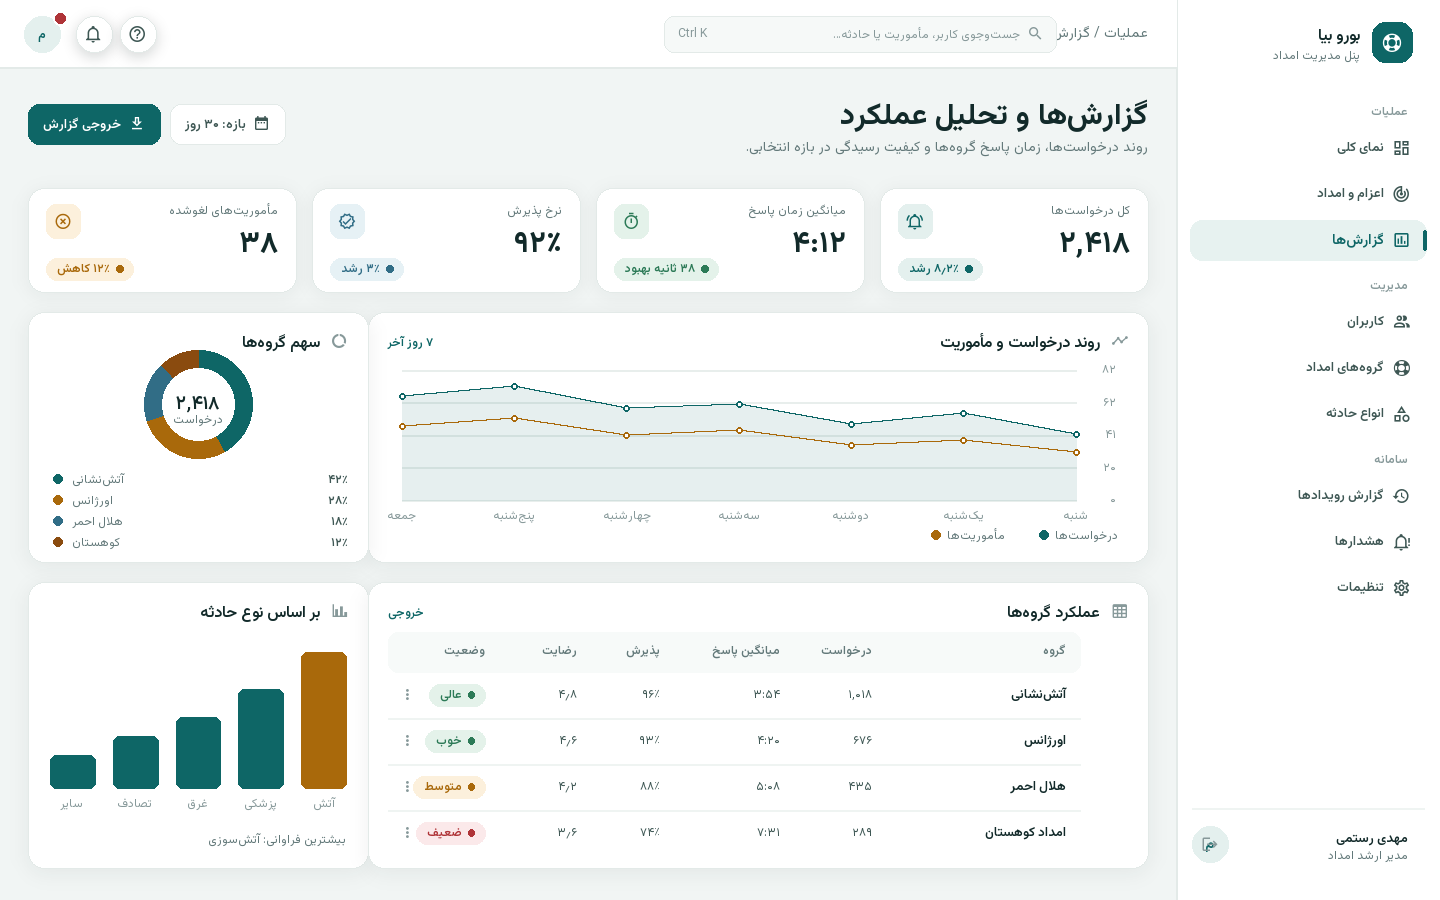
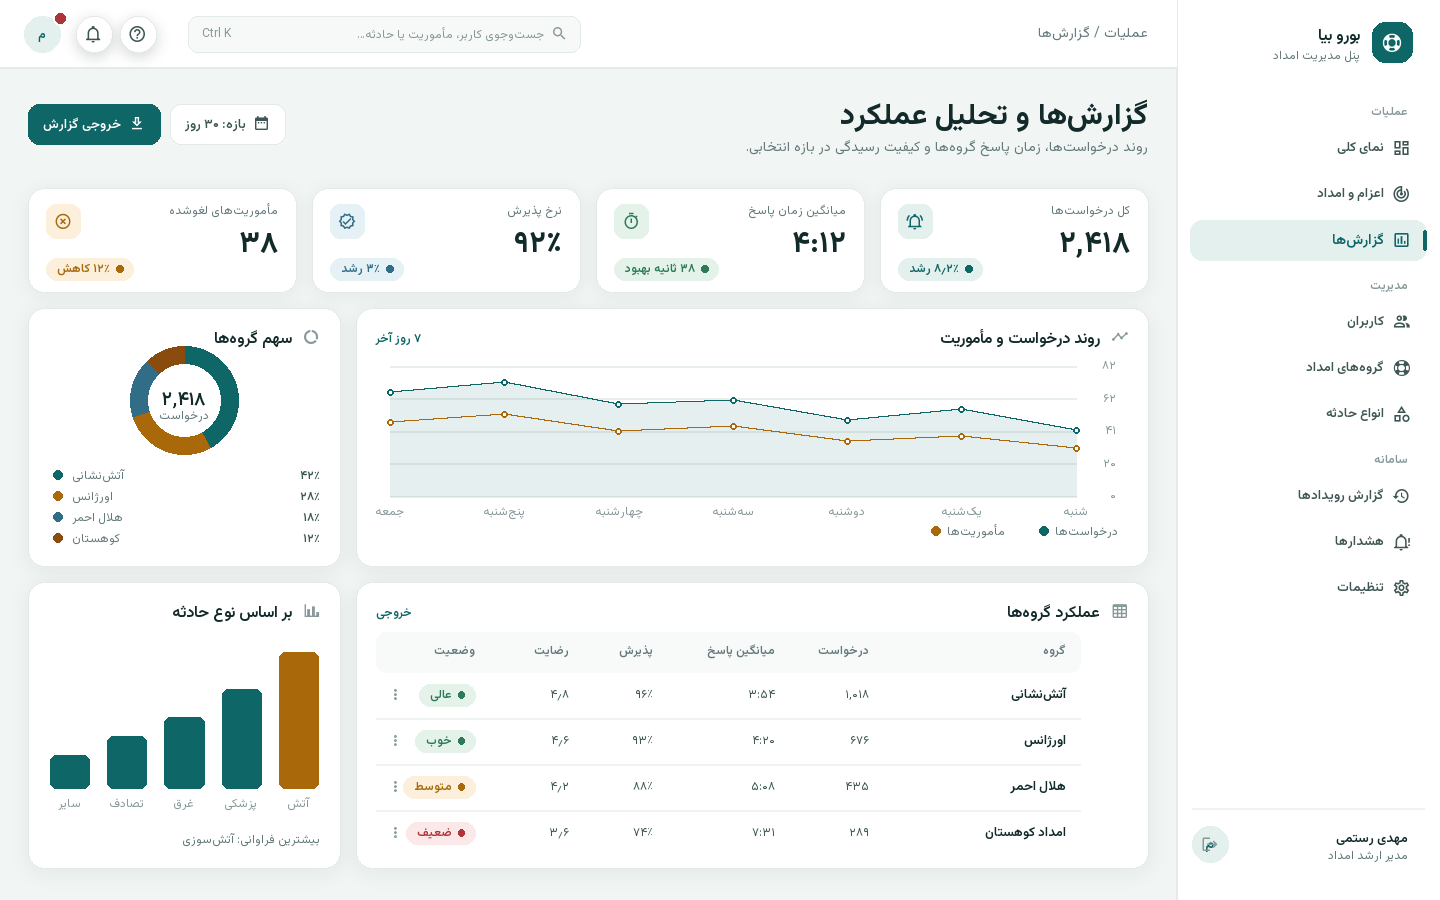
fix(admin-panel): repair the reports grid, palette card and control padding
- `03-reports`: the rail cards were 340 wide and butted straight into the main
  column (0 px gutter) while the KPI row used 16, and the row steps drifted.
  The rail is 312 now and every gutter is 16, so the screen matches
  `01-overview`.
- `01-foundations`: the swatches hung 20 px outside the 700-wide palette card,
  and four of the eight labels named colours the mockups never use
  (`primary_soft` #E7F2F0, "secondary" #E9B35A, "accent" #D77A58,
  `warning` #B57A12, `danger` #B3383C). The card reads its hex from the live
  theme, stays inside the card and lists real tokens (`primary_soft` #E4F0EE,
  `mission` #8A4B0F, `text` #122A2A, `warning` #A9690B, `danger` #AF3438);
  `A.nav_active` now reuses `C.primary_soft` instead of a one-off tint.
- `02-controls`: the button row ended exactly on the card border (0 px on the
  right, 20 px on the left). The three buttons are 162/162/160 with 12 px gaps,
  so the row spans the 508 px inner width.
- `03-members`: the 24 px checkbox sat at `mx + mw - 66`, i.e. 6 px outside the
  member row; it is anchored to the row now (14 px inside) with a 17 px tick.
- every screen: the global search sat at x=664..1056 while the breadcrumb is
  right-aligned on 1148, so any trail longer than ~90 px was drawn on top of
  the field (`states/02-empty`). The search moved next to the account cluster
  (188..580) and the breadcrumb owns the right edge with a 520 px cap.

diff --git a/design/admin-panel/_generator/sections/design_system.py b/design/admin-panel/_generator/sections/design_system.py
@@ -5,15 +5,17 @@ import atheme  # noqa: F401
 from atheme import A, C, PAD, RAIL, TYPE
 import desk as D
 
+# (token, usage) — the hex is read from the live theme, so the card can never drift
+# from the colours the rest of the mockups are drawn with.
 SWATCHES = [
-    ("primary", "#0E6666", "کنش اصلی، لینک، سایدبار فعال"),
-    ("primary_soft", "#E7F2F0", "پسزمینهٔ چیپ و آیتم فعال"),
-    ("secondary", "#E9B35A", "هشدار عملیاتی، مأموریت"),
-    ("accent", "#D77A58", "تأکید ثانویه، نمودار"),
-    ("success", "#2C7A57", "آماده، پذیرفتهشده"),
-    ("warning", "#B57A12", "دیرکرد، در انتظار"),
-    ("danger", "#B3383C", "لغو، خطا، غیرفعال"),
-    ("info", "#316D86", "اطلاعرسانی، راهنما"),
+    ("primary", "کنش اصلی، لینک، سایدبار فعال"),
+    ("primary_soft", "چیپ، آیتم انتخابشده، آواتار"),
+    ("mission", "تأکید مأموریت امداد، نمودار"),
+    ("text", "متن اصلی، تیتر و جدول"),
+    ("success", "آماده، پذیرفتهشده"),
+    ("warning", "دیرکرد، در انتظار"),
+    ("danger", "لغو، خطا، غیرفعال"),
+    ("info", "اطلاعرسانی، راهنما"),
 ]
 
 
@@ -27,10 +29,13 @@ def foundations():
     )
 
     # ---- palette ----------------------------------------------------------
-    D.card(s, PAD, y, 700, 336, "پالت رنگ", "mdi-palette-outline")
-    for index, (name, hexa, usage) in enumerate(SWATCHES):
+    palette_w, palette_pad = 700, 20
+    D.card(s, PAD, y, palette_w, 336, "پالت رنگ", "mdi-palette-outline")
+    swatch_right = PAD + palette_w - palette_pad        # inner right edge of the card
+    for index, (name, usage) in enumerate(SWATCHES):
+        hexa = getattr(C, name)
         col, row = index // 4, index % 4
-        sx = PAD + 680 - col * 330          # left edge of the swatch
+        sx = swatch_right - 40 - col * 330             # left edge of the swatch
         sy = y + 60 + row * 66
         s.rect(sx, sy, 40, 40, fill=hexa, radius=9, outline=A.card_edge, outline_w=1)
         s.text(sx - 12, sy + 2, name, "d-label", C.text, align="right")
@@ -97,16 +102,18 @@ def controls():
     bx0 = RAIL - 548
     br, bl = bx0 + 528, bx0 + 20
     D.card(s, bx0, y, 548, 300, "دکمهها", "mdi-gesture-tap-button")
-    D._button(s, bl, y + 56, 170, 42, "ثبت اعزام", "mdi-send", "filled")
-    D._button(s, bl + 182, y + 56, 170, 42, "خروجی CSV", "mdi-download-outline", "outline")
-    D._button(s, bl + 364, y + 56, 164, 42, "بازخوانی", "mdi-refresh", "tonal")
+    # 162 + 12 + 162 + 12 + 160 = 508 = card inner width
+    bw1, bw2, bw3 = 162, 162, 160
+    D._button(s, bl, y + 56, bw1, 42, "ثبت اعزام", "mdi-send", "filled")
+    D._button(s, bl + 174, y + 56, bw2, 42, "خروجی CSV", "mdi-download-outline", "outline")
+    D._button(s, bl + 348, y + 56, bw3, 42, "بازخوانی", "mdi-refresh", "tonal")
     s.text(br, y + 110, "پر برای کنش اصلی، خطدار برای ثانویه، ملایم برای تکرارپذیر.",
            "d-caption", C.muted, align="right", max_width=508)
-    D._button(s, bl, y + 138, 170, 42, "لغو مأموریت", "mdi-close-circle-outline", "danger")
-    D._button(s, bl + 182, y + 138, 170, 42, "ذخیرهٔ پیشنویس", "mdi-content-save-outline",
+    D._button(s, bl, y + 138, bw1, 42, "لغو مأموریت", "mdi-close-circle-outline", "danger")
+    D._button(s, bl + 174, y + 138, bw2, 42, "ذخیرهٔ پیشنویس", "mdi-content-save-outline",
               "danger-outline")
-    s.rect(bl + 364, y + 138, 164, 42, fill=C.surface_3, radius=11)
-    s.text(bl + 364 + 82, y + 149, "غیرفعال", "d-label", C.muted_2, align="center")
+    s.rect(bl + 348, y + 138, bw3, 42, fill=C.surface_3, radius=11)
+    s.text(bl + 348 + bw3 / 2, y + 149, "غیرفعال", "d-label", C.muted_2, align="center")
     s.text(br, y + 192, "هر ناحیه فقط یک دکمهٔ پر دارد؛ دکمهٔ غیرفعال نه سایه دارد نه حاشیه.",
            "d-caption", C.muted, align="right", max_width=508)
     s.text(br, y + 236, "ارتفاع دکمه ۴۲، شعاع ۱۱، فاصلهٔ افقی ۱۲.",

diff --git a/design/admin-panel/_generator/sections/dashboard.py b/design/admin-panel/_generator/sections/dashboard.py
@@ -9,7 +9,7 @@ from bb.map import draw_base, draw_labels, draw_pois, incident_marker, team_mark
 import desk as D
 
 # three columns of the content area
-MAIN_X, MAIN_W = 368, 780
+MAIN_X, MAIN_W = 356, 792
 RAIL_X, RAIL_W = PAD, 312
 TOP = 188
 
@@ -254,10 +254,10 @@ def reports():
         x = RAIL - kw - index * (kw + 16)
         D.kpi(s, x, y, kw, 104, label, value, delta, tone, icon)
 
-    y += 124
+    y += 120
 
     # trend
-    D.card(s, MAIN_X, y, MAIN_W, 250, "روند درخواست و مأموریت", "mdi-chart-timeline-variant",
+    D.card(s, MAIN_X, y, MAIN_W, 258, "روند درخواست و مأموریت", "mdi-chart-timeline-variant",
            "۷ روز آخر")
     D.chart_line(s, MAIN_X + 34, y + 58, MAIN_W - 66, 130,
                  [[42, 55, 48, 61, 58, 72, 66], [30, 38, 35, 44, 41, 52, 47]],
@@ -267,8 +267,8 @@ def reports():
                                                     ("مأموریتها", C.warning)])
 
     # donut
-    D.card(s, RAIL_X, y, 340, 250, "سهم گروهها", "mdi-chart-donut")
-    D.donut(s, RAIL_X + 170, y + 92, 54, [42, 28, 18, 12],
+    D.card(s, RAIL_X, y, RAIL_W, 258, "سهم گروهها", "mdi-chart-donut")
+    D.donut(s, RAIL_X + RAIL_W / 2, y + 92, 54, [42, 28, 18, 12],
             [C.primary, C.warning, C.info, C.mission], 18, "۲٬۴۱۸", "درخواست")
     shares = [("آتشنشانی", "۴۲٪", C.primary), ("اورژانس", "۲۸٪", C.warning),
               ("هلال احمر", "۱۸٪", C.info), ("کوهستان", "۱۲٪", C.mission)]
@@ -276,15 +276,16 @@ def reports():
         ly = y + 160 + index * 21
         s.circle(RAIL_X + 30, ly + 7, 4.5, fill=color)
         s.text(RAIL_X + 44, ly, label, "d-caption", C.muted, align="left")
-        s.text(RAIL_X + 320, ly, value, "d-caption-bold", C.text_2, align="right")
+        s.text(RAIL_X + RAIL_W - 20, ly, value, "d-caption-bold", C.text_2, align="right")
 
-    y += 270
+    y += 274
 
     # bars
-    D.card(s, RAIL_X, y, 340, 286, "بر اساس نوع حادثه", "mdi-chart-bar")
-    D.chart_bars(s, RAIL_X + 22, y + 56, 296, 150, [58, 42, 30, 22, 14],
+    D.card(s, RAIL_X, y, RAIL_W, 286, "بر اساس نوع حادثه", "mdi-chart-bar")
+    D.chart_bars(s, RAIL_X + 22, y + 56, RAIL_W - 44, 150, [58, 42, 30, 22, 14],
                  ["آتش", "پزشکی", "غرق", "تصادف", "سایر"], C.primary, highlight=0)
-    s.text(RAIL_X + 318, y + 250, "بیشترین فراوانی: آتشسوزی", "d-caption", C.muted, align="right")
+    s.text(RAIL_X + RAIL_W - 20, y + 250, "بیشترین فراوانی: آتشسوزی", "d-caption", C.muted,
+           align="right")
 
     # group performance
     D.card(s, MAIN_X, y, MAIN_W, 286, "عملکرد گروهها", "mdi-table-large", "خروجی")

diff --git a/design/admin-panel/_generator/sections/services.py b/design/admin-panel/_generator/sections/services.py
@@ -169,12 +169,14 @@ def members():
         ("نگار طاهری", "negar.t · امدادگر", False),
     ]
     ly = top + 94
+    row_x, row_w = mx + 24, mw - 48
+    cb = row_x + row_w - 14 - 24                # checkbox sits 14 px inside the row
     for name, meta, on in users:
-        s.rect(mx + 24, ly, mw - 48, 52, fill=C.primary_soft if on else C.surface_2, radius=10)
-        s.rect(mx + 24 + mw - 66, ly + 14, 24, 24, fill=C.primary if on else C.surface,
+        s.rect(row_x, ly, row_w, 52, fill=C.primary_soft if on else C.surface_2, radius=10)
+        s.rect(cb, ly + 14, 24, 24, fill=C.primary if on else C.surface,
                radius=7, outline=None if on else A.card_edge, outline_w=0 if on else 1.4)
         if on:
-            s.i.draw_icon(mx + 24 + mw - 54, ly + 26, "mdi-check", 15, "#FFFFFF")
+            s.i.draw_icon(cb + 12, ly + 26, "mdi-check", 17, "#FFFFFF")
         s.text(mx + mw - 92, ly + 8, name, "d-label", C.text, align="right")
         s.text(mx + mw - 92, ly + 28, meta, "d-caption", C.muted, align="right")
         ly += 60

diff --git a/design/admin-panel/_generator/desk.py b/design/admin-panel/_generator/desk.py
@@ -82,9 +82,10 @@ def _nav_item(s: Screen, x0: float, y: float, key: str, label: str, icon: str, a
 def topbar(s: Screen, crumbs: str, actions_left: bool = True):
     s.rect(0, 0, A0.CONTENT_W, TOPBAR, fill=C.surface)
     s.rect(0, TOPBAR - 1, A0.CONTENT_W, 1, fill=A.card_edge)
-    s.text(RAIL, 22, crumbs, "d-body", C.muted, align="right")
-    # global search
-    sx, sw = A0.CONTENT_W - 120 - 392, 392
+    # breadcrumbs own the start (right) edge of the bar and never grow into the search
+    s.text(RAIL, 22, crumbs, "d-body", C.muted, align="right", max_width=520)
+    # global search sits with the account cluster at the end (left) edge
+    sx, sw = 188, 392
     s.rect(sx, 16, sw, 36, fill=C.surface_2, radius=10, outline=A.card_edge, outline_w=1)
     s.i.draw_icon(sx + sw - 20, 34, "mdi-magnify", 17, C.muted_2)
     s.text(sx + sw - 36, 26, "جستوجوی کاربر، مأموریت یا حادثه…", "d-sm", C.muted_2,

diff --git a/design/admin-panel/_generator/atheme.py b/design/admin-panel/_generator/atheme.py
@@ -48,7 +48,7 @@ class A:
     table_head = "#F7FAF9"
     row_line = "#EFF4F2"
     rail_bg = "#FBFDFC"
-    nav_active = "#E7F2F0"
+    nav_active = C.primary_soft
     shadow_soft = ("#193536", 20)     # (color, alpha)
     chart_grid = "#E8EEEC"
     series = ("#0E6666", "#B57A12", "#316D86", "#8A4B0F", "#2C7A57")

diff --git a/design/admin-panel/README.md b/design/admin-panel/README.md
@@ -67,10 +67,10 @@
 | توکن | مقدار | کاربرد |
 |---|---|---|
 | `primary` | `#0E6666` | کنش اصلی، آیتم فعال سایدبار، لینک |
-| `primary_soft` | `#E7F2F0` | چیپ، آیتم انتخابشده، آواتار |
-| `secondary` | `#E9B35A` | هشدار عملیاتی، مأموریت |
-| `accent` | `#D77A58` | تأکید ثانویه در نمودار |
-| `success` / `warning` / `danger` / `info` | `#2C7A57` / `#B57A12` / `#B3383C` / `#316D86` | وضعیتها (ثابت در کل پنل) |
+| `primary_soft` | `#E4F0EE` | چیپ، آیتم انتخابشده، آواتار |
+| `mission` | `#8A4B0F` | تأکید مأموریت امداد، اسلایس نمودار |
+| `text` | `#122A2A` | متن اصلی، تیتر و جدول |
+| `success` / `warning` / `danger` / `info` | `#2C7A57` / `#A9690B` / `#AF3438` / `#316D86` | وضعیتها (ثابت در کل پنل) |
 
 **بوم:** ۱۴۴۰×۹۰۰ — سایدبار ۲۶۴ از **راست**، نوار بالا ۶۸، حاشیهٔ محتوا ۲۸،
 ستون کنار ۳۰۰. شعاع: کارت ۱۶، دکمه ۱۱، چیپ `h/2`.
